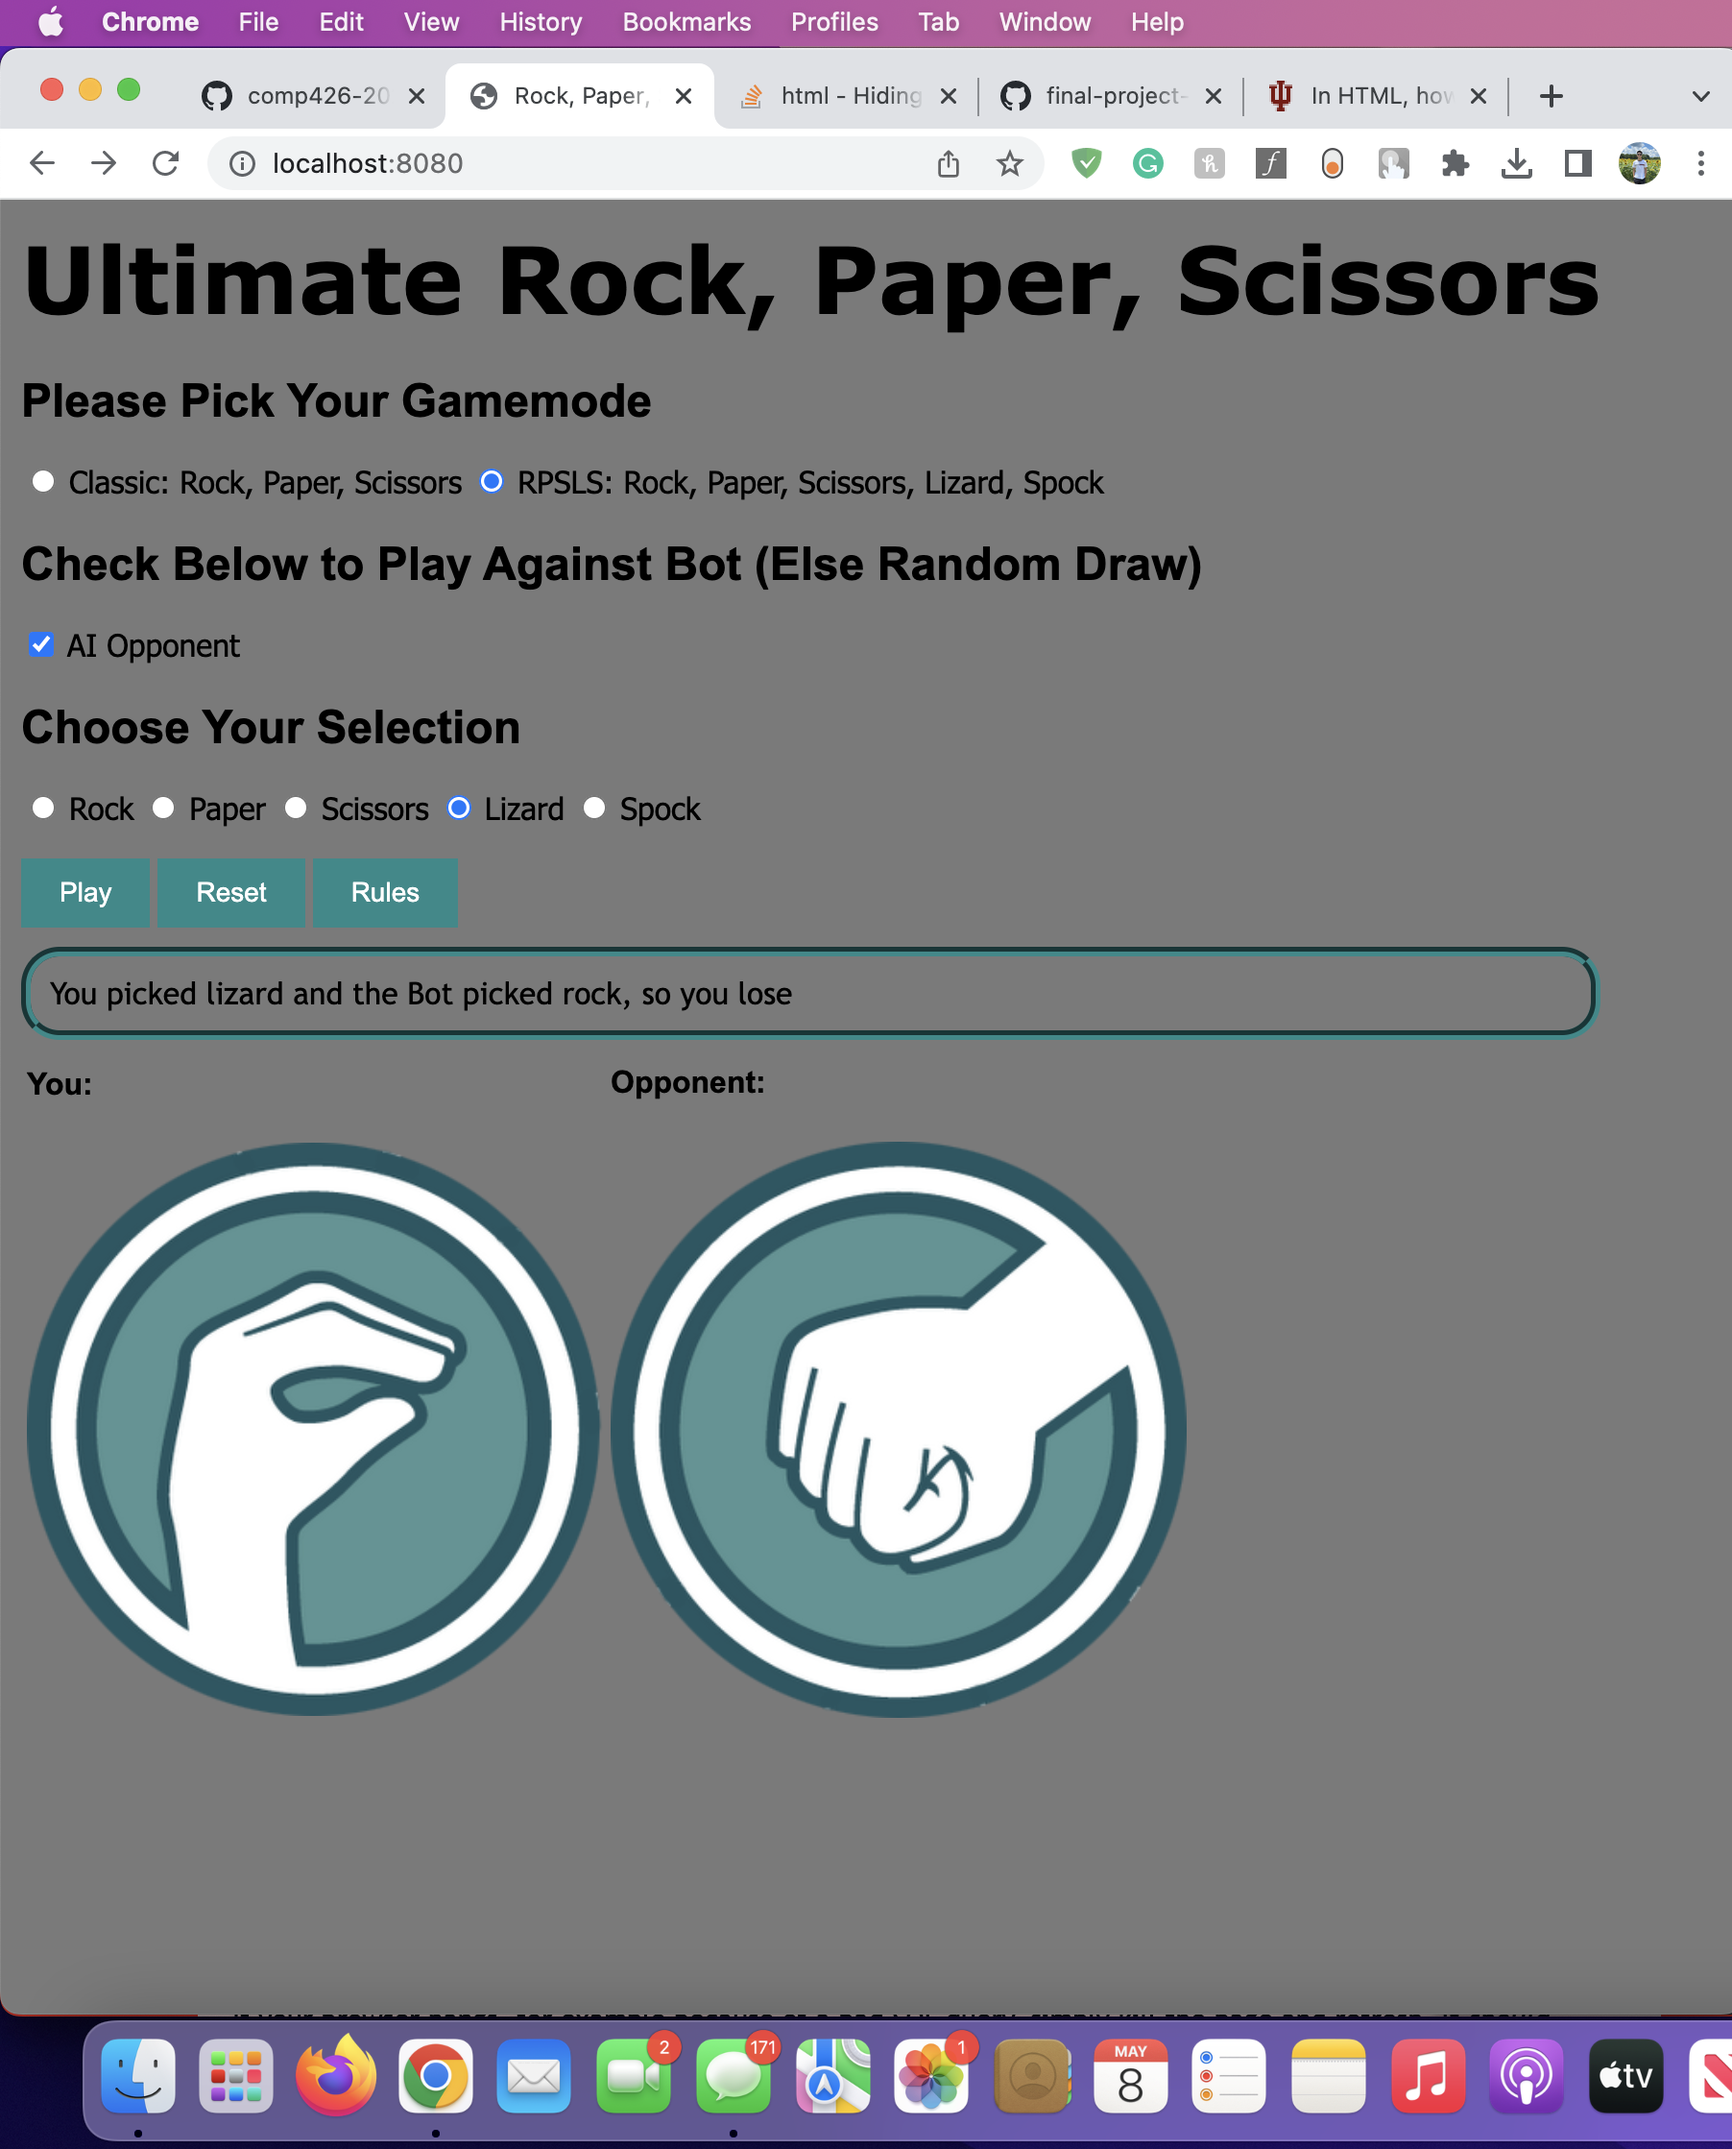
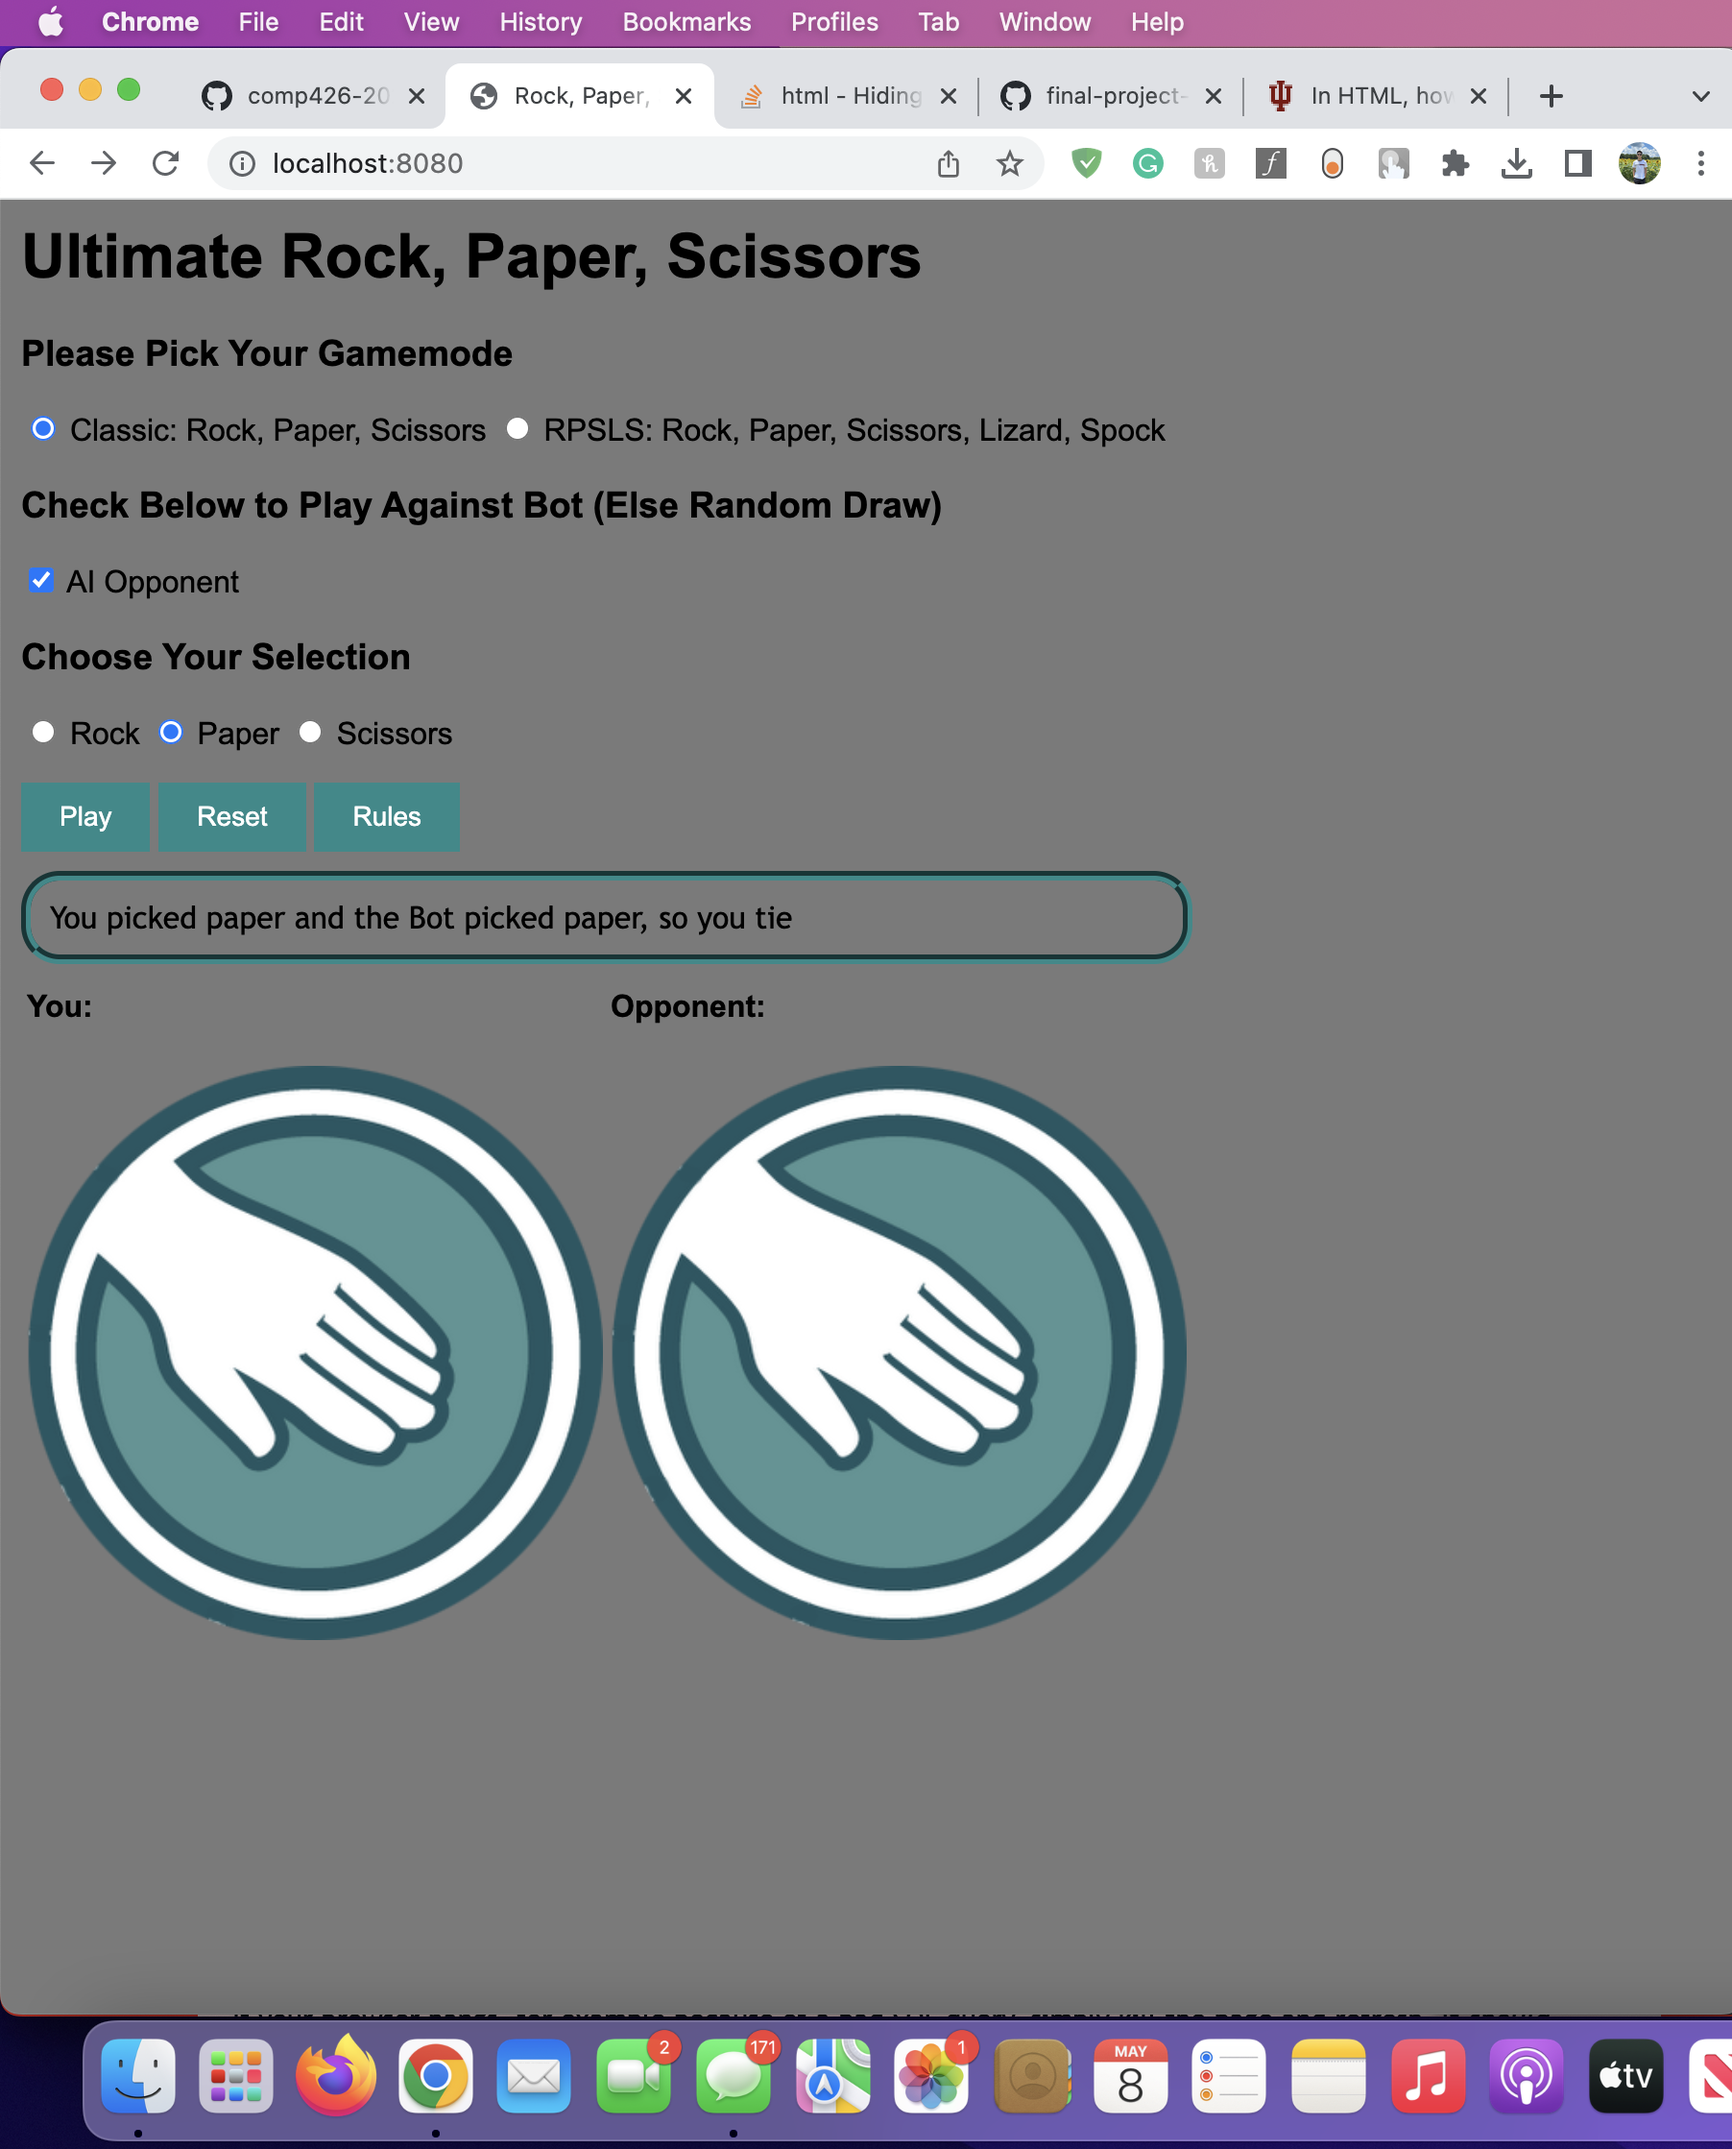
e02

Changed region(s): [[0.0, 0.0925, 0.9313, 0.8016], [0.6829, 0.0925, 0.9313, 0.1542]]

diff --git a/public/index.html b/public/index.html
@@ -14,12 +14,12 @@
                         <h1 font size="20">Ultimate Rock, Paper, Scissors</h1>
                         <h3>Please Pick Your Gamemode</h3>
                         <input type="radio" id="rps" name="gameType" value="rps" onclick="toggleShots()">
-                        <label style="font-family: Tahoma" for="rps">Classic: Rock, Paper, Scissors</label>
+                        <label for="rps">Classic: Rock, Paper, Scissors</label>
                         <input type="radio" id="rpsls" name="gameType" value="rpsls" onclick="toggleShots()">
-                        <label style="font-family: Tahoma" for="rpsls">RPSLS: Rock, Paper, Scissors, Lizard, Spock</label>
+                        <label for="rpsls">RPSLS: Rock, Paper, Scissors, Lizard, Spock</label>
                         <h3>Check Below to Play Against Bot (Else Random Draw)</h3>
                         <input type="checkbox" id="opponent" name="opponentSelect" value="opponent" onclick="toggleShots()">
-                        <label style="font-family: Tahoma" for="opponent">AI Opponent</label>
+                        <label for="opponent">AI Opponent</label>
                         <div id="shots">
                             <h3>Choose Your Selection</h3>
                             <input type="radio" id="rock" name="shot" value="rock" class="rpsShot" >

diff --git a/public/styles.css b/public/styles.css
@@ -1,6 +1,7 @@
 body {
   background-color: rgb(122, 122, 122);
   align-items: center;
+  font-family: Arial;
 }
 
 p.results {
